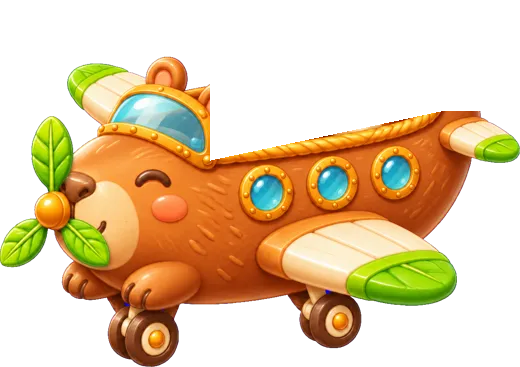
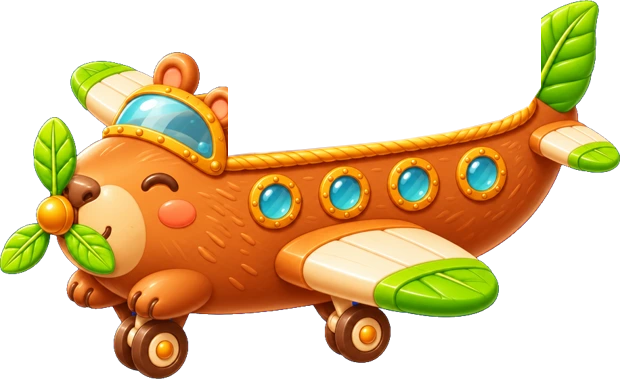
카피공항 예시판: 비행기 좌석 3개(맨 앞 기장 탑승)로 통일, 등대와 겹치는 자리에서 이륙
Claude-Session: https://claude.ai/code/session_015t7mweLLBzEFYGgsGmysr6

diff --git a/js/airport.js b/js/airport.js
@@ -34,8 +34,8 @@ export function openAirport(o) {
   const sc = o.scoot ? o.scoot() : null, meEl = h('div', { class: 'fm-me ap-me' + (sc ? ' scoot' : ''), html: sc || capy(ctx.capyOf(ctx.uid, { face: 'happy' })) });
   // 바깥
   const TX = W * 0.14, TWD = W * 0.3, doorX = TX + TWD * 0.42;
-  const outPlane = h('img', { class: 'ap-plane out', src: 'img/air/plane.webp?v=3', alt: '' });
-  const parked = [0.035, 0.105].map(x => h('img', { class: 'ap-parked', src: 'img/air/plane.webp?v=3', alt: '', style: { left: W * x + 'px' } })); // 터미널 왼쪽 계류장: 두 대가 나란히
+  const outPlane = h('img', { class: 'ap-plane out', src: 'img/air/plane.webp?v=4', alt: '' });
+  const parked = [0.035, 0.105].map(x => h('img', { class: 'ap-parked', src: 'img/air/plane.webp?v=4', alt: '', style: { left: W * x + 'px' } })); // 터미널 왼쪽 계류장: 두 대가 나란히
   const term = h('button', { class: 'ap-term', 'aria-label': '카피공항 들어가기', style: { left: TX + 'px', width: TWD + 'px' }, onClick: () => walkTo(doorX, goIn) }, h('img', { src: 'img/air/terminal.webp', alt: '' }), h('b', { class: 'ap-term-t' }, '카피공항'));
   const front = h('img', { class: 'ap-front', src: 'img/air/front.webp?v=4', alt: '' }); // 활주로 앞 야자수·난간: 비행기보다 앞에 보이게
   const exitSign = h('button', { class: 'fm-exit', style: { left: W - Math.round(W * 0.13) + 'px' }, onClick: () => close() }, '놀이터로 →');
@@ -43,7 +43,7 @@ export function openAirport(o) {
   // 안쪽
   const counter = h('button', { class: 'ap-counter', 'aria-label': '공항 카운터', onClick: () => walkTo(W * 0.13, openTicket) });
   const inAtt = h('img', { class: 'ap-crew in tap', src: 'img/air/att.webp', alt: '카피승무원', style: { left: W * 0.115 + 'px' }, onClick: () => walkTo(W * 0.13, openTicket) }), inPilot = h('img', { class: 'ap-crew in pl', src: 'img/air/pilot.webp', alt: '카피기장', style: { left: W * 0.392 + 'px' } }); // 기장: 카운터 옆 출입구(탑승구) 바로 곁
-  const inPlane = h('img', { class: 'ap-plane in', src: 'img/air/plane.webp?v=3', alt: '' });
+  const inPlane = h('img', { class: 'ap-plane in', src: 'img/air/plane.webp?v=4', alt: '' });
   const boardEl = h('div', { class: 'ap-board' }), boardRows = h('div', { class: 'ap-brows' }); boardEl.append(h('span', null, `🛫 출발 안내 · ${DEST}행`), boardRows);
   const walker = h('img', { class: 'ap-crew in wk', src: 'img/air/att-walk.webp', alt: '카피승무원' }), wk = { x: W * 0.8, y: 0.3, tx: W * 0.5, ty: 0.5, d: -1, wait: 0 }; // 캐리어를 끌고 대기장을 오가는 승무원
   const cntT = h('b', { class: 'ap-cnt-t', style: { fontSize: Math.round(H * 0.052) + 'px' } }, '카운터');
@@ -103,8 +103,8 @@ export function openAirport(o) {
   function talk(dt, f) { if (f.phase !== lastPh) { lastPh = f.phase; if (f.phase !== 'none') { say('cnt', f); say('pl', f); say('wk', f); talkAt = 5; } } if ((talkAt -= dt) <= 0) { talkAt = 3.5 + Math.random() * 3; say(['cnt', 'pl', 'wk'][Math.floor(Math.random() * 3)], f); }
     for (const k in says) { if (sayT[k] > 0 && (sayT[k] -= dt) <= 0) says[k].hidden = true; if (!says[k].hidden) { const e = npc[k]; says[k].style.left = e.style.left; says[k].style.bottom = `calc(${getComputedStyle(e).bottom} + ${e.offsetHeight * (k === 'wk' ? 1 - wk.y * 0.12 : 1) + 4}px)`; } } }
   // 탑승: 바닷가 활주로 시작점에 선 비행기에 내 카피바라가 앉아 → 쪽을 본다
-  function ride() { const cap = h('div', { class: 'ap-ride-me', html: capy(ctx.capyOf(ctx.uid, { face: 'happy' })) });
-    const rig = h('div', { class: 'ap-ride-rig' }, h('img', { class: 'ap-ride-pl', src: 'img/air/plane.webp?v=3', alt: '' }), cap, h('img', { class: 'ap-ride-hull', src: 'img/air/plane-hull.webp?v=3', alt: '' }));
+  function ride() { const cap = h('div', { class: 'ap-ride-me', html: capy(ctx.capyOf(ctx.uid, { face: 'happy' })) }), cpt = h('img', { class: 'ap-ride-cpt', src: 'img/air/pilot-seat.webp?v=1', alt: '' }); // 좌석 3개: 맨 앞은 기장, 나는 가운데
+    const rig = h('div', { class: 'ap-ride-rig' }, h('img', { class: 'ap-ride-pl', src: 'img/air/plane.webp?v=4', alt: '' }), cpt, cap, h('img', { class: 'ap-ride-hull', src: 'img/air/plane-hull.webp?v=4', alt: '' }));
     const msg = h('b'), sub = h('small'), offBtn = h('button', { class: 'btn sm', onClick: () => end() }, demo ? '내리기 (예시판)' : '내리기'), box = h('div', { class: 'ap-ride-t' }, msg, sub, demo && offBtn);
     const sky = h('div', { class: 'ap-sky', hidden: true, style: { '--skyw': Math.round(H * 2688 / 576) + 'px' } }, h('i', { class: 'ap-sky-bg' }), ...Array.from({ length: 7 }, (_, i) => h('img', { class: 'ap-cloud', src: `img/air/cloud${i % 3 + 1}.webp?v=2`, alt: '', style: { top: 4 + i * 13 + (i % 2) * 4 + '%', width: 26 + (i * 17) % 30 + '%', animationDuration: 1.6 + (i * 0.41) % 1.5 + 's', animationDelay: -(i * 0.47) + 's', opacity: 0.7 + (i % 3) * 0.12, zIndex: i % 3 === 0 ? 3 : 1 } })));
     // 1) 바깥 풍경 그대로: 활주로를 달리며 화면이 따라간다(1.5초 뒤 돛단배 · 다시 1.5초 뒤 등대) → 등대 앞에서 떠오른다
@@ -112,10 +112,10 @@ export function openAirport(o) {
     const el = h('div', { class: 'ap-ride', style: { height: H + 'px' } }, layer, sky, box); let timer = 0, raf2 = 0, t0 = performance.now(); const FLY = 180000;
     const end = () => { clearInterval(timer); cancelAnimationFrame(raf2); el.remove(); bgm.start('airport'); };
     msg.textContent = `✈ ${DEST}행 출발!`; sub.textContent = '활주로를 달려요…'; scene.append(el); sfx('pop');
-    const vw = el.clientWidth || 360, c0 = W * 0.52, c1 = W * 0.675, c2 = Math.min(W * 0.87, W - vw / 2), RY = H * 0.585, rw = W * 0.15; rig.style.width = rw + 'px';
+    const vw = el.clientWidth || 360, c0 = W * 0.52, c1 = W * 0.675, c2 = Math.min(W * 0.87, W - vw / 2), RY = H * 0.585, rw = W * 0.19; rig.style.width = rw + 'px';
     const run = now2 => { if (!el.isConnected) return; const t = (now2 - t0) / 1000; let py = RY, rot = 0;
-      // 4초 동안 끊김 없이 점점 빨라지며 달리고, 등대를 막 지난 자리(0.9W)에서 기수를 들고 ↗ 로 떠오른다
-      const RUN = 4, x0 = c0 - vw * 0.12, xL = W * 0.9, v1 = (xL - x0) * 1.7 / RUN, s = t - RUN;
+      // 4초 동안 끊김 없이 점점 빨라지며 달리고, 등대와 딱 겹치는 자리(0.868W)에서 기수를 들고 ↗ 로 떠오른다
+      const RUN = 4, x0 = c0 - vw * 0.12, xL = W * 0.868, v1 = (xL - x0) * 1.7 / RUN, s = t - RUN;
       const X = t < RUN ? x0 + (xL - x0) * Math.pow(t / RUN, 1.7) : xL + v1 * s * (1 + s * 0.15);
       const cmax = W - vw / 2, kk = vw * 0.06, cam = -kk * Math.log(Math.exp(-(X + vw * 0.12) / kk) + Math.exp(-cmax / kk)); // 화면 끝에서 카메라가 부드럽게 멈춘다
       if (s > 0) { const u = s / 1.5; py = RY - H * 0.9 * u * u; const k = Math.min(1, s / 0.9); rot = -24 * k * k * (3 - 2 * k); }

diff --git a/css/app.css b/css/app.css
@@ -3129,10 +3129,10 @@ img.kb-sic { width: 30px; height: 30px; object-fit: contain; display: block; mar
 .ap-world { background: center / 100% 100% no-repeat; overflow: hidden; margin: 0 auto; } .ap-world[hidden] { display: none; }
 .ap-runway { position: absolute; left: 0; right: 0; top: 58.5%; height: 0; z-index: 0; }
 .ap-window { position: absolute; left: 43.6%; width: 55%; top: 18%; height: 42%; overflow: hidden; z-index: 0; }
-.ap-plane { position: absolute; bottom: 0; width: 26%; opacity: 0; pointer-events: none; transform-origin: 50% 100%; filter: drop-shadow(0 3px 3px rgba(0,0,0,.18)); will-change: transform, left; }
-.ap-runway .ap-plane { top: 0; bottom: auto; width: 10.5%; }
-.ap-window .ap-plane { top: 97%; bottom: auto; width: 46%; }
-.ap-parked { position: absolute; top: 55.5%; width: 6.6%; transform: translate(-50%, -100%); z-index: 1; pointer-events: none; }
+.ap-plane { position: absolute; bottom: 0; width: 30%; opacity: 0; pointer-events: none; transform-origin: 50% 100%; filter: drop-shadow(0 3px 3px rgba(0,0,0,.18)); will-change: transform, left; }
+.ap-runway .ap-plane { top: 0; bottom: auto; width: 12%; }
+.ap-window .ap-plane { top: 97%; bottom: auto; width: 53%; }
+.ap-parked { position: absolute; top: 55.5%; width: 7.6%; transform: translate(-50%, -100%); z-index: 1; pointer-events: none; }
 .ap-term { position: absolute; bottom: 31%; z-index: 2; padding: 0; border: 0; background: none; cursor: pointer; aspect-ratio: 900 / 682; container-type: inline-size; }
 .ap-term img { width: 100%; height: 100%; display: block; filter: drop-shadow(0 6px 6px rgba(0,0,0,.18)); }
 
@@ -3189,10 +3189,11 @@ img.kb-sic { width: 30px; height: 30px; object-fit: contain; display: block; mar
 .ap-ride-w { position: absolute; left: 0; top: 0; background: url(../img/air/out.webp?v=4) center / 100% 100% no-repeat; will-change: transform; }
 .ap-ride-w .ap-ride-rig { z-index: 1; } .ap-ride-w .ap-front { z-index: 2; }
 .ap-ride-rig { position: absolute; transform: translate(-50%, -100%); transform-origin: 50% 80%; }
-.ap-ride-rig.air { left: 50%; top: 64%; width: min(62%, 300px); z-index: 2; animation: apAir 2.2s ease-in-out infinite; }
+.ap-ride-rig.air { left: 50%; top: 64%; width: min(74%, 350px); z-index: 2; animation: apAir 2.2s ease-in-out infinite; }
 @keyframes apAir { 0%, 100% { translate: 0 -12px; rotate: -3deg; } 50% { translate: 0 12px; rotate: 2deg; } }
 .ap-ride-pl, .ap-ride-hull { display: block; width: 100%; transform: scaleX(-1); } .ap-ride-hull { position: absolute; left: 0; top: 0; }
-.ap-ride-me { position: absolute; left: 47.5%; top: -3%; width: 27%; transform: translateX(-50%); } .ap-ride-me svg { width: 100%; display: block; transform: scaleX(-1); }
+.ap-ride-me { position: absolute; left: 42.6%; top: 6%; width: 18%; transform: translateX(-50%); }
+.ap-ride-cpt { position: absolute; left: 56.8%; top: 9%; width: 19%; transform: translateX(-50%); } .ap-ride-me svg { width: 100%; display: block; transform: scaleX(-1); }
 .ap-sky { position: absolute; inset: 0; overflow: hidden; } .ap-sky[hidden] { display: none; }
 .ap-sky-bg { position: absolute; left: 0; top: 0; height: 100%; width: calc(var(--skyw, 2000px) * 2); background: url(../img/air/sky.webp?v=2) 0 0 / var(--skyw, 2000px) 100% repeat-x; animation: apSky 14s linear infinite; will-change: transform; } @keyframes apSky { to { transform: translate3d(calc(-1 * var(--skyw, 2000px)), 0, 0); } }
 .ap-cloud { position: absolute; left: 0; height: auto; animation: apCloud 1.4s linear infinite; pointer-events: none; will-change: transform; }
